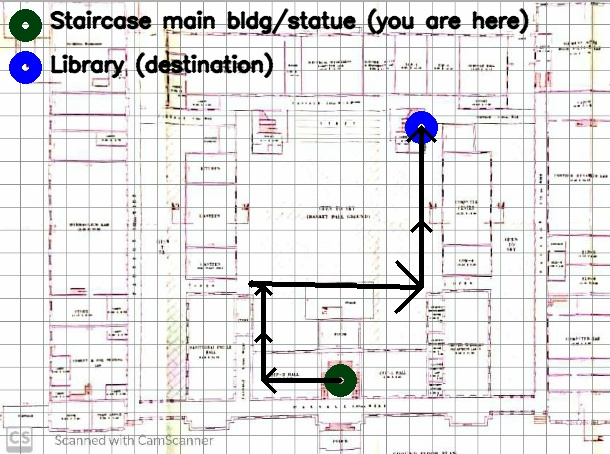
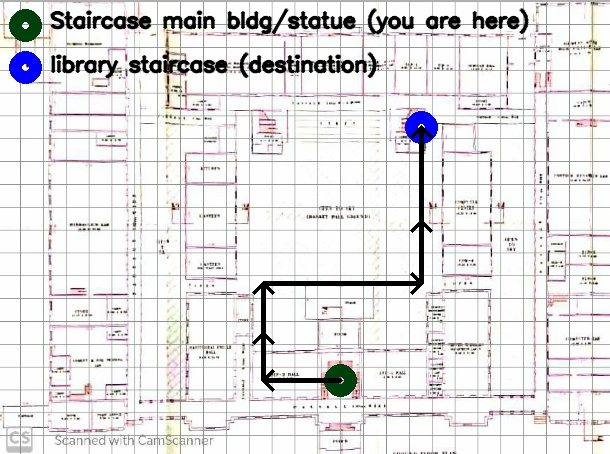
Adding new node/edges for BEE Lab

Changed region(s): [[0.0934, 0.1233, 0.623, 0.185], [0.4049, 0.5859, 0.6852, 0.6784]]

diff --git a/Graph.py b/Graph.py
@@ -44,7 +44,8 @@ pixel_mapping = {
     20:(215,380),
     21:(126,444),
     22:(54,444),
-    23:(101,390)
+    23:(101,390),
+    24:(534,124),
 }
 
 
@@ -255,6 +256,7 @@ graph = Graph(25, nodes)
 graph.addAllEdges('edges.csv')
 
 def getPath(destination,source):
+    print(source + " -->" + destination)
     src_number = map_node[source]
     if destination:
         dest_number = map_node[destination]
@@ -298,16 +300,18 @@ def getPath(destination,source):
         plt.imshow(cv2.cvtColor(im_resized, cv2.COLOR_BGR2RGB))
         plt.show()
         cv2.imwrite("display_image.jpg", im_resized)
+        print(distance)
         return directions_text
     return ""
-getPath("Library","Staircase main bldg/statue")
-
+getPath("Comps dept","Staircase main bldg/statue")
+getPath("BEE Lab","Comps dept")
+getPath("library staircase","BEE Lab")
+getPath("library staircase","Staircase main bldg/statue")
 """
-#Demo Code
-sleep(5)
 getPath("Comps dept","Staircase main bldg/statue")
 sleep(2)
 getPath("Library","Staircase main bldg/statue")
 sleep(2)
 getPath("Lab3","Canteen")
 """
+
